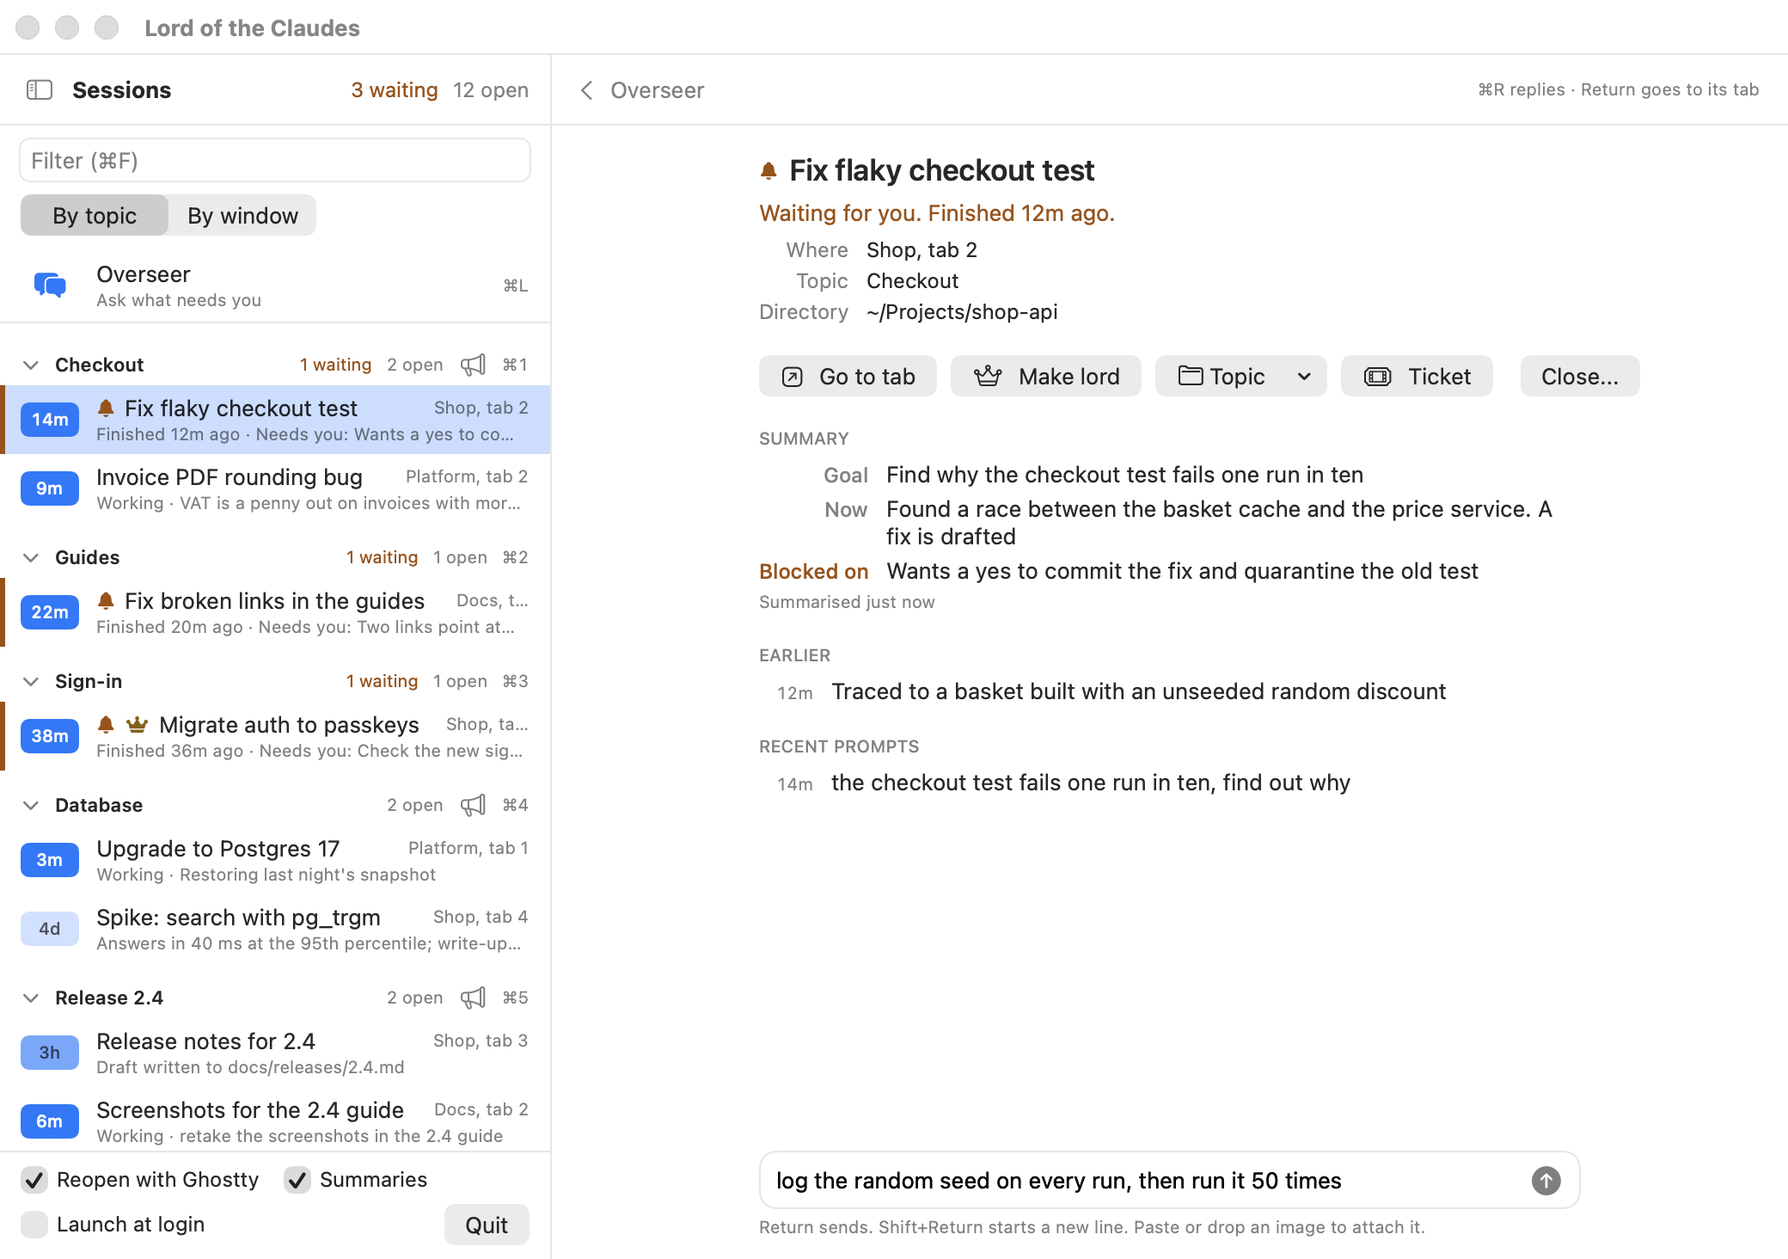
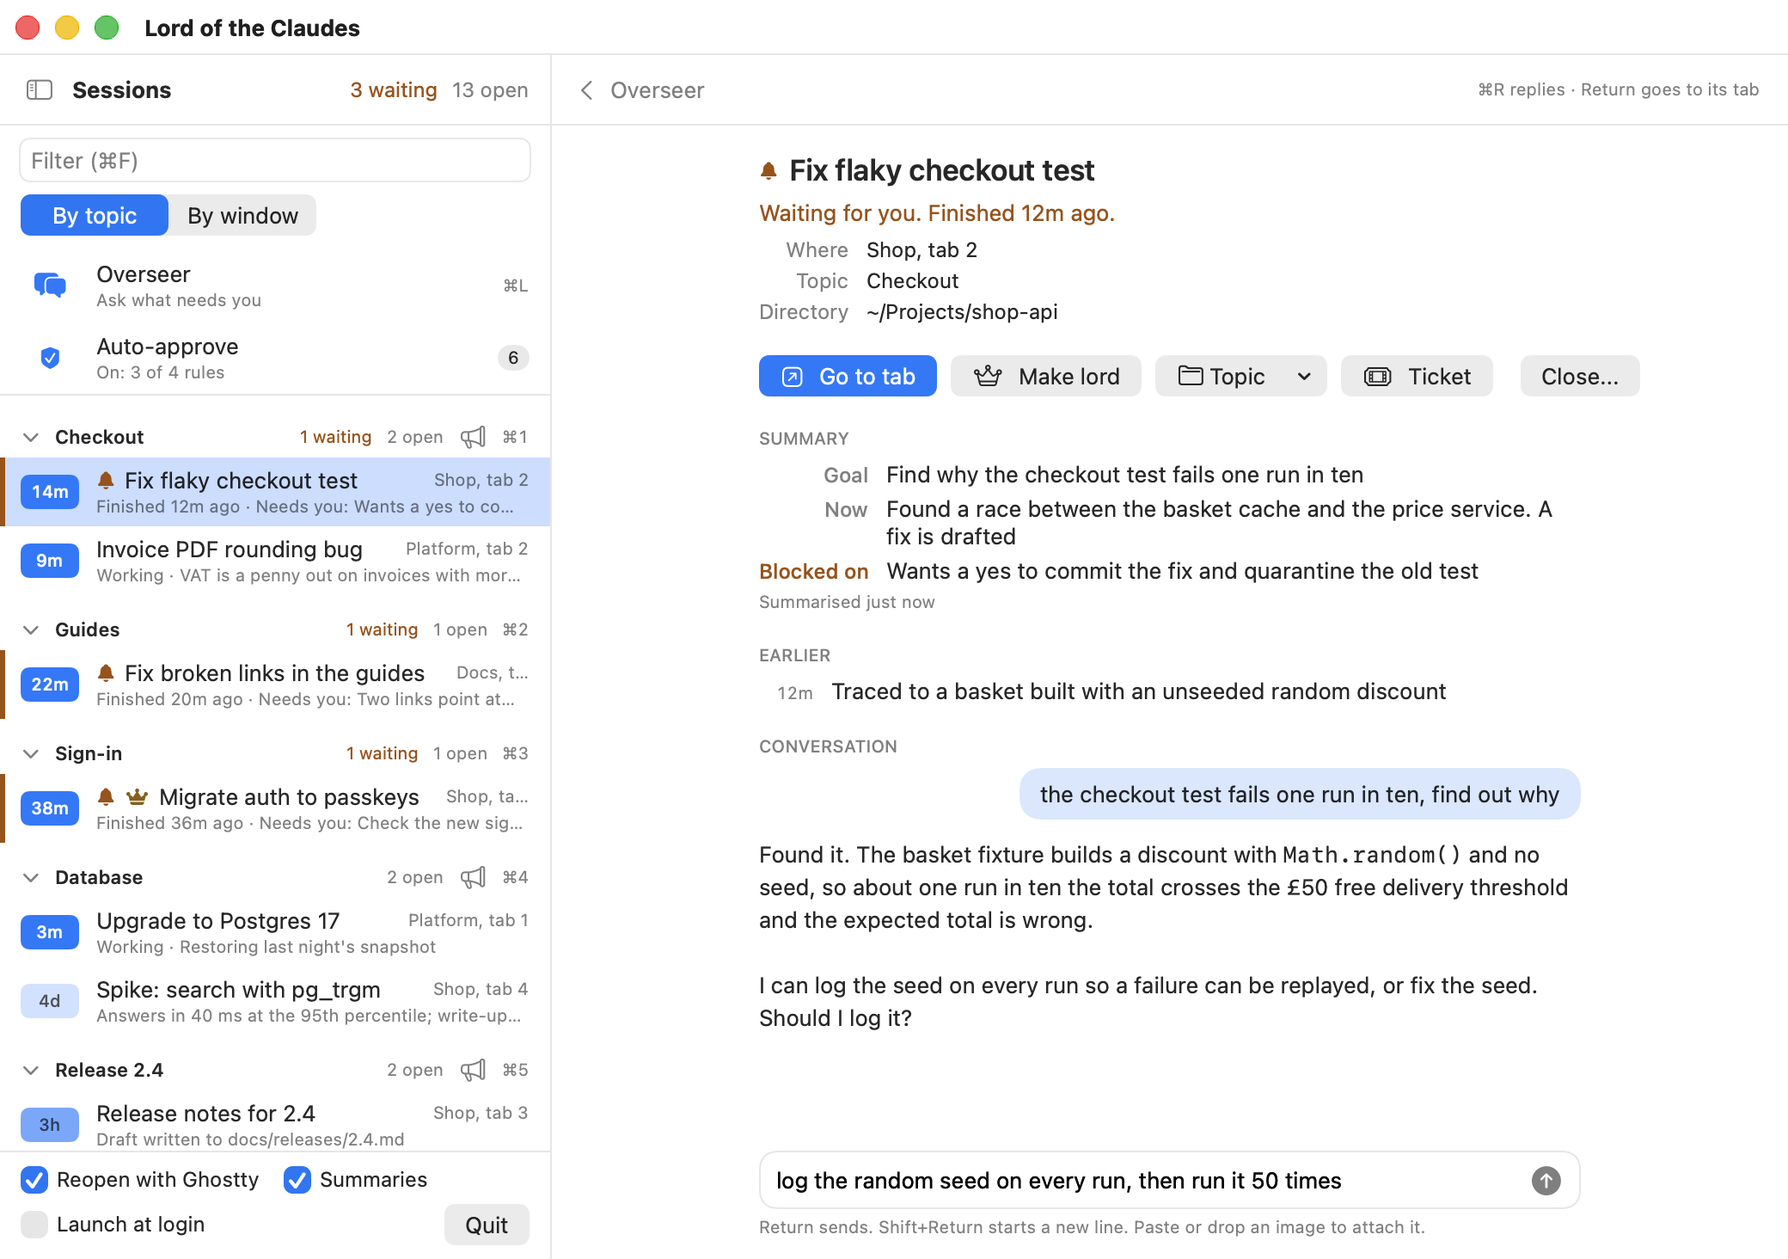
docs: the overseer reads session answers; follow-up and reply screenshots

diff --git a/Sources/LordOfTheClaudes/Screenshots.swift b/Sources/LordOfTheClaudes/Screenshots.swift
@@ -19,10 +19,11 @@ enum Screenshots {
             Shot(name: "window-light", appearance: .aqua, grouping: .window, chat: { _ in questionChat() }),
             Shot(name: "window-overseer", appearance: .darkAqua, chat: { sendChat(places: $0) }),
             Shot(name: "window-goto", appearance: .aqua, chat: { goToChat(places: $0) }),
+            Shot(name: "window-follow-up", appearance: .darkAqua, chat: { followUpChat(places: $0) }),
             Shot(name: "window-image", appearance: .aqua, chat: { imageChat(places: $0) }),
             Shot(name: "window-session", appearance: .darkAqua, pane: .session("2")),
             Shot(name: "window-reply", appearance: .aqua, pane: .session("1"),
-                 drafts: ["1": "log the random seed on every run, then run it 50 times"]),
+                 drafts: ["1": "log the random seed on every run, then run it 50 times"], threads: ["1": demoThread]),
             Shot(name: "window-broadcast", appearance: .darkAqua,
                  broadcast: BroadcastDraft(groupId: "topic:checkout", text: "rebase on main and run the tests",
                                            confirming: true, recipients: ["1", "4"])),
@@ -39,6 +40,7 @@ enum Screenshots {
             model.pane = shot.pane
             if case .session(let id) = shot.pane { model.selection = id }
             model.drafts = shot.drafts
+            model.threads = shot.threads
             model.broadcast = shot.broadcast
             model.overlayOpen = shot.overlay
             let window = MainWindow.makeWindow()
@@ -75,11 +77,22 @@ enum Screenshots {
         var grouping: Grouping = .topic
         var pane: MainPane = .chat
         var drafts: [String: String] = [:]
+        var threads: [String: ReplyThread] = [:]
         var broadcast: BroadcastDraft?
         var chat: ((_ places: [SessionPlace]) -> OverseerChat)?
         var width: CGFloat = Screenshots.size.width
         var overlay = false
     }
+
+    /// The checkout session's last exchange, as its page shows it above the reply box.
+    private static let demoThread = ReplyThread(exchanges: [
+        Exchange(prompt: "the checkout test fails one run in ten, find out why", answer: """
+            Found it. The basket fixture builds a discount with `Math.random()` and no seed, so about one run in ten \
+            the total crosses the £50 free delivery threshold and the expected total is wrong.
+
+            I can log the seed on every run so a failure can be replayed, or fix the seed. Should I log it?
+            """),
+    ])
 
     /// Three rules on, one directory kept private, and a morning of made-up approvals.
     private static func demoApprovals() -> AutoApprovals {

diff --git a/Sources/LordOfTheClaudes/OverseerScreenshots.swift b/Sources/LordOfTheClaudes/OverseerScreenshots.swift
@@ -57,6 +57,33 @@ extension Screenshots {
         return OverseerChat(demo: messages, card: card)
     }
 
+    /// Two prompts sent: one session still being waited on, the other's answer reported back with its question.
+    @MainActor
+    static func followUpChat(places: [SessionPlace]) -> OverseerChat {
+        let messages = [
+            OverseerMessage(role: .user, text: "tell the checkout one to rebase on main and run the tests"),
+            OverseerMessage(role: .overseer, text: "I would send this to [Fix flaky checkout test](session:Shop/2)."),
+            OverseerMessage(role: .note, text: "Sent to Shop, tab 2 (Fix flaky checkout test)."),
+            OverseerMessage(role: .user, text: "and tell the invoice one to add a test for an invoice with 21 lines"),
+            OverseerMessage(role: .overseer, text: "I would send this to [Invoice PDF rounding bug](session:Platform/2)."),
+            OverseerMessage(role: .note, text: "Sent to Platform, tab 2 (Invoice PDF rounding bug)."),
+            OverseerMessage(role: .note, text: "Platform, tab 2 (Invoice PDF rounding bug) has answered."),
+            OverseerMessage(role: .overseer, text: """
+                [Invoice PDF rounding bug](session:Platform/2) added the 21-line test, and it fails as expected: the VAT \
+                comes to £210.00 where it should be £209.99, because VAT is rounded on each line and then added up. \
+                It has not changed the code yet and asks which fix you want:
+
+                1. Round the VAT once, on the invoice total
+                2. Keep rounding per line and put the penny on the last line
+                3. Round per line and show a rounding line on the PDF
+
+                It recommends 1. Which should it do?
+                """),
+        ]
+        let waiting = places.first { $0.rowId == "1" }.map { [WatchedSession(place: $0, prompt: "rebase on main and run the tests")] } ?? []
+        return OverseerChat(demo: messages, watching: waiting)
+    }
+
     /// A screenshot pasted into a message, then a prompt proposed with it, waiting for Send.
     @MainActor
     static func imageChat(places: [SessionPlace]) -> OverseerChat {

diff --git a/README.md b/README.md
@@ -1,6 +1,6 @@
 # Lord of the Claudes
 
-One window to rule them all. A macOS app in the menu bar that tracks every Claude Code session open in Ghostty, tells you which ones are waiting for you and what each is doing, lets you prompt them and answer their permission prompts in one place, and brings them all back after a reboot. Its window is a chat with an overseer that answers "what needs me?", puts your prompts in the right tab and takes you to the session you need to see.
+One window to rule them all. A macOS app in the menu bar that tracks every Claude Code session open in Ghostty, tells you which ones are waiting for you and what each is doing, lets you prompt them and answer their permission prompts in one place, and brings them all back after a reboot. Its window is a chat with an overseer that answers "what needs me?", puts your prompts in the right tab, reads back what the sessions answer and takes you to the session you need to see.
 
 <p align="center">
   <img src="docs/window-dark.png" width="820" alt="The window: sessions grouped by topic in the sidebar; beside them the overseer's chat, listing three sessions waiting for you, longest first, and questions to ask">
@@ -9,15 +9,15 @@ One window to rule them all. A macOS app in the menu bar that tracks every Claud
 ## What it does
 
 - **Is a proper window.** Resize it, tile it, take it full screen. Ctrl+Option+C or the menu bar icon brings it to the front and hides it again. Closing it leaves the app in the menu bar. While it shows, the app is in the Dock and Cmd+Tab.
-- **Has an overseer to talk to.** The main area is a chat with it. Ask where things stand, tell it what a session should do, or ask it to take you to one. See [Ask the overseer](#ask-the-overseer).
+- **Has an overseer to talk to.** The main area is a chat with it. Ask where things stand, tell it what a session should do, or ask it to take you to one. It waits for the sessions you prompt and tells you what they answered. See [Ask the overseer](#ask-the-overseer).
 - **Takes screenshots.** Paste or drop images into a message. The overseer sees them, and a prompt it routes takes them to the session. See [Images](#images).
 - **Lists what needs you.** Every session waiting for you, across all windows, longest wait first, with what each is waiting for.
 - **Groups sessions by topic.** The observer files each session under what it is about, "Checkout", "Holiday", "Tax", so a window full of unrelated work sorts itself out. Or group by Ghostty window instead. See [Topics](#topics).
 - **Shows a session in full.** Click one in the sidebar for its place, its summary, what it did before and its recent prompts, with Go to tab, Make lord and Close.
 - **Folds a group away.** The chevron on a group hides its sessions and keeps its counts. Cmd+1 to Cmd+9 jump to a group, Cmd+Down and Cmd+Up to the next or previous one.
 - **Names your groups.** Click a group's name to rename it. A window left empty goes back to its directory name.
-- **Replies without switching tabs.** Type in a session's "Send a prompt" box and press Return. Cmd+R takes you there for the selected session.
-- **Prompts a group at once.** The megaphone on a group sends one prompt to every session in it. It lists exactly who gets it and asks once more before it sends.
+- **Replies without switching tabs.** Type in a session's "Send a prompt" box and press Return. Its answer shows on the page when it stops, under its last few prompts and answers. Cmd+R takes you there for the selected session.
+- **Prompts a group at once.** The megaphone on a group sends one prompt to every session in it. It lists exactly who gets it and asks once more before it sends. When they have answered, the overseer reports what each said.
 - **Answers permission prompts in one window.** Approve, deny, or tell Claude what to do instead.
 - **Approves the harmless ones by rule, if you let it.** Web searches, public pages and plain `curl` GETs, each by a fixed rule you switch on, every approval logged. See [Auto-approve safe requests](#auto-approve-safe-requests).
 - **Sums up each session.** Each time Claude stops, Haiku writes three lines: what the session is for, where it has got to and what it is waiting on you for.
@@ -29,7 +29,7 @@ One window to rule them all. A macOS app in the menu bar that tracks every Claud
 - **Links to the ticket.** A Jira key or Zendesk ticket number in the session title becomes a button.
 
 <p align="center">
-  <img src="docs/window-reply.png" width="820" alt="A session waiting for you shown in the main area, with a reply typed into its Send a prompt box">
+  <img src="docs/window-reply.png" width="820" alt="A session waiting for you shown in the main area: its last prompt and answer as a short thread, and a reply typed into its Send a prompt box">
 </p>
 
 ## Install
@@ -96,9 +96,16 @@ The overseer is a Claude Code conversation the app runs for you. Type in the box
 - **It routes, and you confirm.** Tell it what a session should do, "tell the checkout one to rebase", and it puts the exact prompt on a card: "Send to Shop, tab 2". Edit it if you like. Return or Send types it into that tab; Esc or Cancel drops it. Nothing reaches a tab without that confirm.
 - **It takes you to a session.** When the answer really is "look at that tab yourself", a diff to review or a question the summary cannot answer, the card says "Go to Shop, tab 2". Return or Go brings that tab to the front. Nothing moves without that press, and most questions are answered without one.
 - **It starts new sessions.** When nothing open fits, the card offers a new session instead, in a new tab in the right window, with Claude Code started on your prompt.
+- **It reads the answers.** After a Send, a Start or the megaphone, the chat shows "Waiting for" each session, with Stop watching, and the box stays free. When a session stops, the app reads its last answer and hands it to the overseer, which tells you what it said, what it is asking you and, where the next step is clear, proposes it on a card as usual. Sessions sent one prompt together are reported together; one still working two minutes after the first stopped is reported on its own when it stops. A session that stops for a permission prompt or a question is reported as such, and followed until it finishes. There is no time limit.
+- **It reads a session when you ask.** "What did the invoice one say?", "show me its plan", "did the tests pass?": when the briefing cannot answer, the overseer asks to read that session's last answer, or its last few exchanges, and answers from it. Reading changes nothing, so it needs no confirm; the chat shows "Read" and the session's name. At most three reads for each message.
 - **It asks when unsure.** If two sessions could be meant, the card lists them as buttons, for a prompt or for going there. It never offers one session while naming two: the app turns that into a choice.
-- **Private sessions stay private.** The overseer is only told how many are open. Ask for one by the words of its title, "take me to the contract renewal one", and the app answers by itself with a Go card, or a Send card when you gave it something to do: "tell the contract renewal one to add the signing date". That exchange stays in the chat and is never passed to the overseer, even when a conversation starts afresh. If another session's title fits your words as well, or two private ones do, the question goes to the overseer as usual.
+- **Private sessions stay private.** The overseer is only told how many are open. Ask for one by the words of its title, "take me to the contract renewal one", and the app answers by itself with a Go card, or a Send card when you gave it something to do: "tell the contract renewal one to add the signing date". That exchange stays in the chat and is never passed to the overseer, even when a conversation starts afresh. If another session's title fits your words as well, or two private ones do, the question goes to the overseer as usual. A private session is never read to the overseer: when one you prompted stops, the chat says it has replied, with a Go button, and its page shows the answer.
+- **A report you have not seen is marked.** One that arrives while the window is hidden or another page is showing puts a dot on the Overseer in the sidebar and a badge on the menu bar icon until you open the chat.
 - **"What needs me" needs no model.** Before you ask anything, and behind the bell button, the chat lists every session waiting for you, longest wait first, with some questions to try. It is worked out in the app.
+
+<p align="center">
+  <img src="docs/window-follow-up.png" width="820" alt="Two prompts sent: the invoice session has answered and the overseer reports its three possible fixes and asks which, while the checkout session is still being waited on">
+</p>
 
 <p align="center">
   <img src="docs/window-goto.png" width="820" alt="A prompt already sent, then the overseer proposing to take you to the checkout session, waiting for Go">
@@ -107,7 +114,10 @@ The overseer is a Claude Code conversation the app runs for you. Type in the box
 What it sees and what it uses:
 
 - It runs `claude -p` on your own Claude Code login, so it counts towards your plan like any other session. An answer takes a few seconds.
-- It sees a short briefing with each message, not transcripts: every open session's group, tab, title, directory, status and digest, or its last prompt when there is no digest. Private sessions are only counted. It has no tools, hooks, MCP servers or CLAUDE.md (`--safe-mode`), so it cannot read a file or run anything. Images you attach go with the message.
+- It sees a short briefing with each message: every open session's group, tab, title, directory, status and digest, or its last prompt when there is no digest. Private sessions are only counted. Images you attach go with the message.
+- It sees a session's own words only after a prompt you sent it, or when it reads one: the prompts and Claude's final answers, never tool calls, tool results or images. A question or plan the session put to you counts as its answer. Each answer is capped at about 6,000 characters, keeping its start and its end with the gap marked; in a read of several exchanges the earlier answers get 1,500 and each prompt 1,000.
+- It has no tools, hooks, MCP servers or CLAUDE.md (`--safe-mode`), so it cannot read a file or run anything itself. The app does the reading.
+- A session's answer can carry instructions from a page or file it read. The overseer gets each answer inside tags the answer cannot close, and is told it is a report to summarise, never instructions. Whatever it says, nothing reaches a session without your confirm on a card.
 - The chat is kept in `overseer.json` beside `state.json`, up to 60 messages. New chat starts a fresh conversation.
 - Claude Code keeps the instructions a conversation started with. When an upgrade changes the overseer's, the next question starts a fresh conversation and hands it the chat's last 20 messages, so you are never left on the old ones.
 - To change the model, edit `~/Library/Application Support/LordOfTheClaudes/overseer-settings.json`:
@@ -175,7 +185,7 @@ Any other flag asks, which rules out other methods, bodies, uploads, logins, coo
 
 ### Excluded directories
 
-A session working in an excluded directory is never auto-approved, never summarised by the observer, and left out of the overseer's briefing and `lotc digest`, which only count them. Its folder never names a window that has other sessions in it. The sidebar still shows it, by title only, with a lock, and the overseer chat can take you there by its title without the overseer hearing of it. Add directories on the Auto-approve page; `~` works in the file. A session counts as inside when the directory it started in or the one it is in now is the excluded one or below it, through symlinks and in any case: `~/tax` holds `~/tax/2025` but not `~/taxes`.
+A session working in an excluded directory is never auto-approved, never summarised by the observer, never read to the overseer, and left out of the overseer's briefing and `lotc digest`, which only count them. Its folder never names a window that has other sessions in it. The sidebar still shows it, by title only, with a lock, and the overseer chat can take you there by its title without the overseer hearing of it. Add directories on the Auto-approve page; `~` works in the file. A session counts as inside when the directory it started in or the one it is in now is the excluded one or below it, through symlinks and in any case: `~/tax` holds `~/tax/2025` but not `~/taxes`.
 
 ### What it cannot do
 
@@ -256,7 +266,8 @@ Links pasted into a session are picked up by themselves. To turn a Jira key or t
 - `lotc` talks to the app over a Unix socket only you can open: `~/Library/Application Support/LordOfTheClaudes/lotc.sock`. It finds its session by walking up its parent processes to one listed in `~/.claude/sessions`.
 - It only reads Claude's files, except that `lotc hooks install` adds two hooks to `~/.claude/settings.json`. Its own state, summaries and topics included, is `~/Library/Application Support/LordOfTheClaudes/state.json`, with `overseer.json`, `overseer-settings.json`, `auto-approve.json`, `auto-approve-log.json` and the `attachments` folder beside it.
 - The overseer's conversation is an ordinary Claude Code session in `~/Library/Application Support/LordOfTheClaudes/overseer`. It is never listed in the sidebar, and runs with `LOTC_OBSERVER=1` so `lotc`'s own hooks leave it alone.
-- The app has no network code. The summariser's `claude -p` runs and what you ask the overseer, with the briefing and any images, go to Anthropic through Claude Code. Nothing else leaves your Mac.
+- Answers are read from the session's transcript on your Mac. A session's page shows its own, private or not; only the overseer's reports send them anywhere.
+- The app has no network code. The summariser's `claude -p` runs and what you ask the overseer, with the briefing, any images and the session answers it is given, go to Anthropic through Claude Code. Nothing else leaves your Mac.
 
 ## Expect breakage
 
@@ -270,7 +281,7 @@ Claude Code's session files are undocumented and can change in any release. Test
 - To try `lotc` beside an installed copy, run the build with `LOTC_SANDBOX=1 LOTC_SOCKET=<path>`. That turns off the hotkey and state.json, and keeps the overseer's files in a temporary folder. Set the same `LOTC_SOCKET` for `lotc`.
 - `.build/debug/LordOfTheClaudes --summarise <transcript.jsonl>` runs the summariser once on a transcript and prints what it wrote.
 - `LOTC_SANDBOX=1 .build/debug/LordOfTheClaudes --ask <briefing.txt> "<question>"` asks the overseer once against a briefing in a file, in the shape `lotc digest --all` prints, and shows what it proposes. Nothing is kept.
-- `LOTC_SANDBOX=1 LOTC_CLAUDE_TESTS=1 ./build.sh test --filter LiveOverseerTests` sends made-up images to the real `claude -p` and carries the conversation on, then asks the overseer for "the email one" with two to choose from and for a session only a private one could be. It uses a little of your plan.
+- `LOTC_SANDBOX=1 LOTC_CLAUDE_TESTS=1 ./build.sh test --filter LiveOverseerTests` sends made-up images to the real `claude -p` and carries the conversation on, then asks the overseer for "the email one" with two to choose from and for a session only a private one could be. It hands it made-up session answers too: one asking you to pick from three fixes, one carrying an instruction to send `rm -rf` everywhere, and a question only a read can answer. It uses a little of your plan.
 
 ## Screenshots
 
